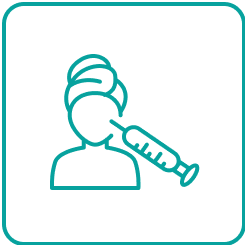
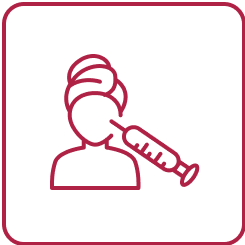
add feature in services

Changed region(s): [[0.2, 0.2, 0.8286, 0.8], [0.0, 0.0, 1.0, 1.0]]

diff --git a/app/laboratry/page.tsx b/app/laboratry/page.tsx
@@ -170,8 +170,8 @@ function page() {
         <>
 
             {/* labarotry herosection  start*/}
-            <div className="padding-x  bg-[#CADBE7] py-10">
-                <div className="flex gap-5 justify-between">
+            <div className="padding-x bg-red-700 bg-opacity-10 py-10">
+                <div className="flex flex-col lg:flex-row gap-5 justify-between">
 
                     <button className='flex items-center'><Image className='mx-4' src="/images/arrow.svg" alt='not found' width={50} height={50} /> <span className='mx-4'>Back</span></button>
 
@@ -179,7 +179,7 @@ function page() {
 
                     <div className="flex  items-center gap-5">
 
-                        <input type='progess' className='bg-[#07A29E] w-[20%] h-[3px]' />
+                        <input type='progess' className='bg-[#AF2245] w-[20%] h-[3px]' />
                         <input type='progess' className='bg-[#FFF] w-[20%] h-[3px]' />
                         <input type='progess' className='bg-[#FFF] w-[20%] h-[3px]' />
                         <input type='progess' className='bg-[#FFF] w-[20%] h-[3px]' />
@@ -191,8 +191,30 @@ function page() {
 
                 </div>
                 <div className="flex justify-between mt-5 items-center">
-                        <div className="left">left</div>
-                        <div className="right">
+                        <div className="left w-[60%]">
+                     <h1 className="global__title">Lab Tests & packages</h1>
+
+
+                     <div className=" gap-5 flex mt-12">
+
+                        <div className="w-[50%]  h-[50px] rounded-[5px] flex justify-between bg-red-700 bg-opacity-10  text-[#AF2245] text-lg font-semibold p-3">   
+                        
+                         <h1 className="flex items-center"><Image className='mx-2' src="/images/location.png" alt='not found' width={20} height={20}/> Location</h1>
+                         <Image src="/images/line.png" alt='not found' width={2} height={10}/>
+                
+                         <h1 className="flex items-center">Saudi Arabia<Image className='mx-2' src="/images/bottomarrow.png" alt='not found' width={20} height={20}/></h1>
+                        
+                        </div>
+                        <div className=" w-[50%] h-[50px] p-3  flex justify-between items-center rounded-[5px] bg-[#FFF]">
+                         <input className='w-[80%] h-[50px] outline-none ' placeholder='Search your lab tests & Packages ' type="text" />
+                         <Image src="/images/search.svg" alt='not found' width={50} height={50}/>
+
+                        </div>
+                     </div>
+    
+
+                        </div>
+                        <div className="w-[30%] right">
                             <div className="w-[238px] h-[235px] relative">
                                 <Image src="/images/packge.png" alt='not found' fill />
 
@@ -208,7 +230,7 @@ function page() {
 
             {/* labortry enbd */}
             <div className="padding-x">
-                <h1 className="global__title py-10">body function or health concern</h1>
+                <h1 className="global__title py-10">Body Function or Health Concern</h1>
 
                 <div className="flex flex-wrap gap-5 justify-center lg:justify-between ">
 
@@ -221,7 +243,7 @@ function page() {
 
                                     <Image src={item.img} alt='not found' width={80} height={80} />
 
-                                    <h1 className="text-[#07A29E] text-sm font-semibold mt-5">{item.title}</h1>
+                                    <h1 className="text-[#AF2245] text-sm font-semibold mt-5">{item.title}</h1>
 
 
 
@@ -262,11 +284,12 @@ function page() {
 
                                         <Image src={item.img} alt='not found' width={130} height={90} />
 
-                                        <h1 className="text-[#07A29E] text-sm font-semibold mt-5">{item.title}</h1>
+                                        <h1 className="text-[#AF2245] text-sm font-semibold mt-5">{item.title}</h1>
 
 
 
                                     </Link>
+                                   
 
 
 
@@ -274,6 +297,7 @@ function page() {
 
                             ))
                         }
+                         <button className= 'w-full shadow-md py-3 bg-[#FFF] rounded-[5px] border-[#AF2245] text-[#AF2245] border-[1px]'>Sell All</button>
                     </div>
 
 
@@ -282,17 +306,17 @@ function page() {
                     <div className='w-full md:w-[35%] flex flex-col items-start'>
                         <h2 className='selectedCard'>Selected test</h2>
                         <div className='w-full rounded-[7px] flex flex-col items-center justify-center mt-3 gap-5 bg-[#F6F7F9] py-5 px-5'>
-                            <div className='flex items-center justify-center gap-5 py-4 px-10 rounded-[13px]' style={{ background: 'rgba(7, 162, 158, 0.10)' }}>
-                                <h2 className='text-[#07A29E] text-sm font-semibold'>Pregnancy Test Serum (BHCG)</h2>
+                            <div className='flex items-center justify-center  bg-red-700 bg-opacity-10 gap-5 py-4 px-10 rounded-[13px]'>
+                                <h2 className='text-[#AF2245] text-sm font-semibold '>Pregnancy Test Serum (BHCG)</h2>
                                 <div className='flex justify-center items-center gap-2'>
                                     <span className='text-xl w-7 h-7 flex justify-center item-center rounded-full border border-white' style={{ background: 'rgba(27, 43, 58, 0.10)' }}>-</span>
                                     <span className='text-xl ' >1</span>
-                                    <span className='text-xl w-7 h-7 flex justify-center bg-[#07A29E] item-center rounded-full border border-white text-white' >+</span>
+                                    <span className='text-xl w-7 h-7 flex justify-center bg-[#AF2245] item-center rounded-full border border-white text-white' >+</span>
                                 </div>
 
                             </div>
 
-                            <button className=' w-full bg-[#07A29E] flex items-center justify-center gap-5 py-4 px-10 rounded-[13px] text-white ' >
+                            <button className=' w-full bg-[#AF2245] flex items-center justify-center gap-5 py-4 px-10 rounded-[13px] text-white ' >
 
                                 Continue
 
